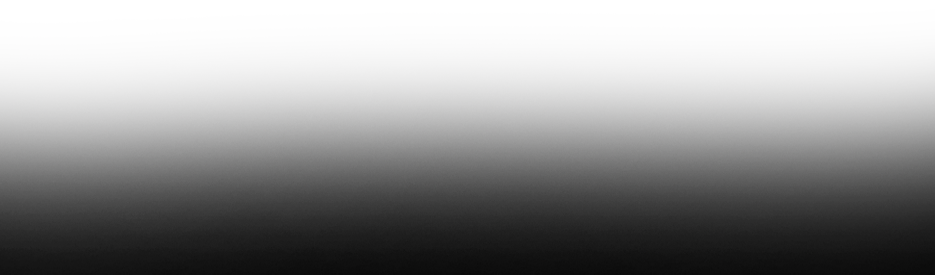
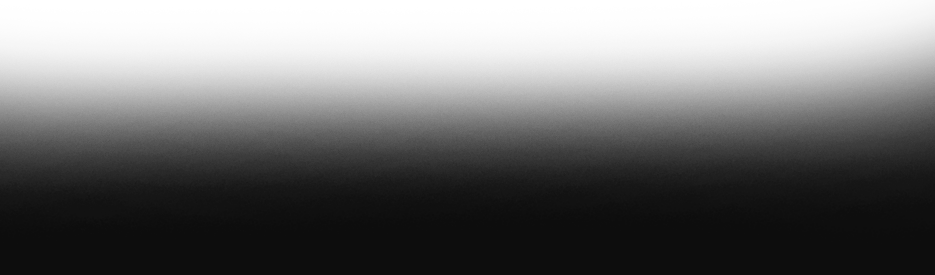
Header Shadow & background position
La sombra del header ya es una div
La imagen se posiciona por backgound position

diff --git a/app/assets/stylesheets/main.css.scss b/app/assets/stylesheets/main.css.scss
@@ -494,15 +494,17 @@ ul{
   width:100%;
   overflow: hidden;
   color: white;
+  margin-top: -5px;
 }
 
 .banner-shadow{
-  height:140px;
+  height:275px;
   width:100%;
   overflow: hidden;
   color: white;
   background: url('/assets/shadow.png') no-repeat;
-  
+  top: 0px;
+ 
 }
 
 #box-titles{
@@ -512,6 +514,7 @@ ul{
   margin-top: 110px;
   color:#FFF;
   font-size: 12pt;
+  z-index: 2;
 }
 #box-titles-content{
   clear: both;
